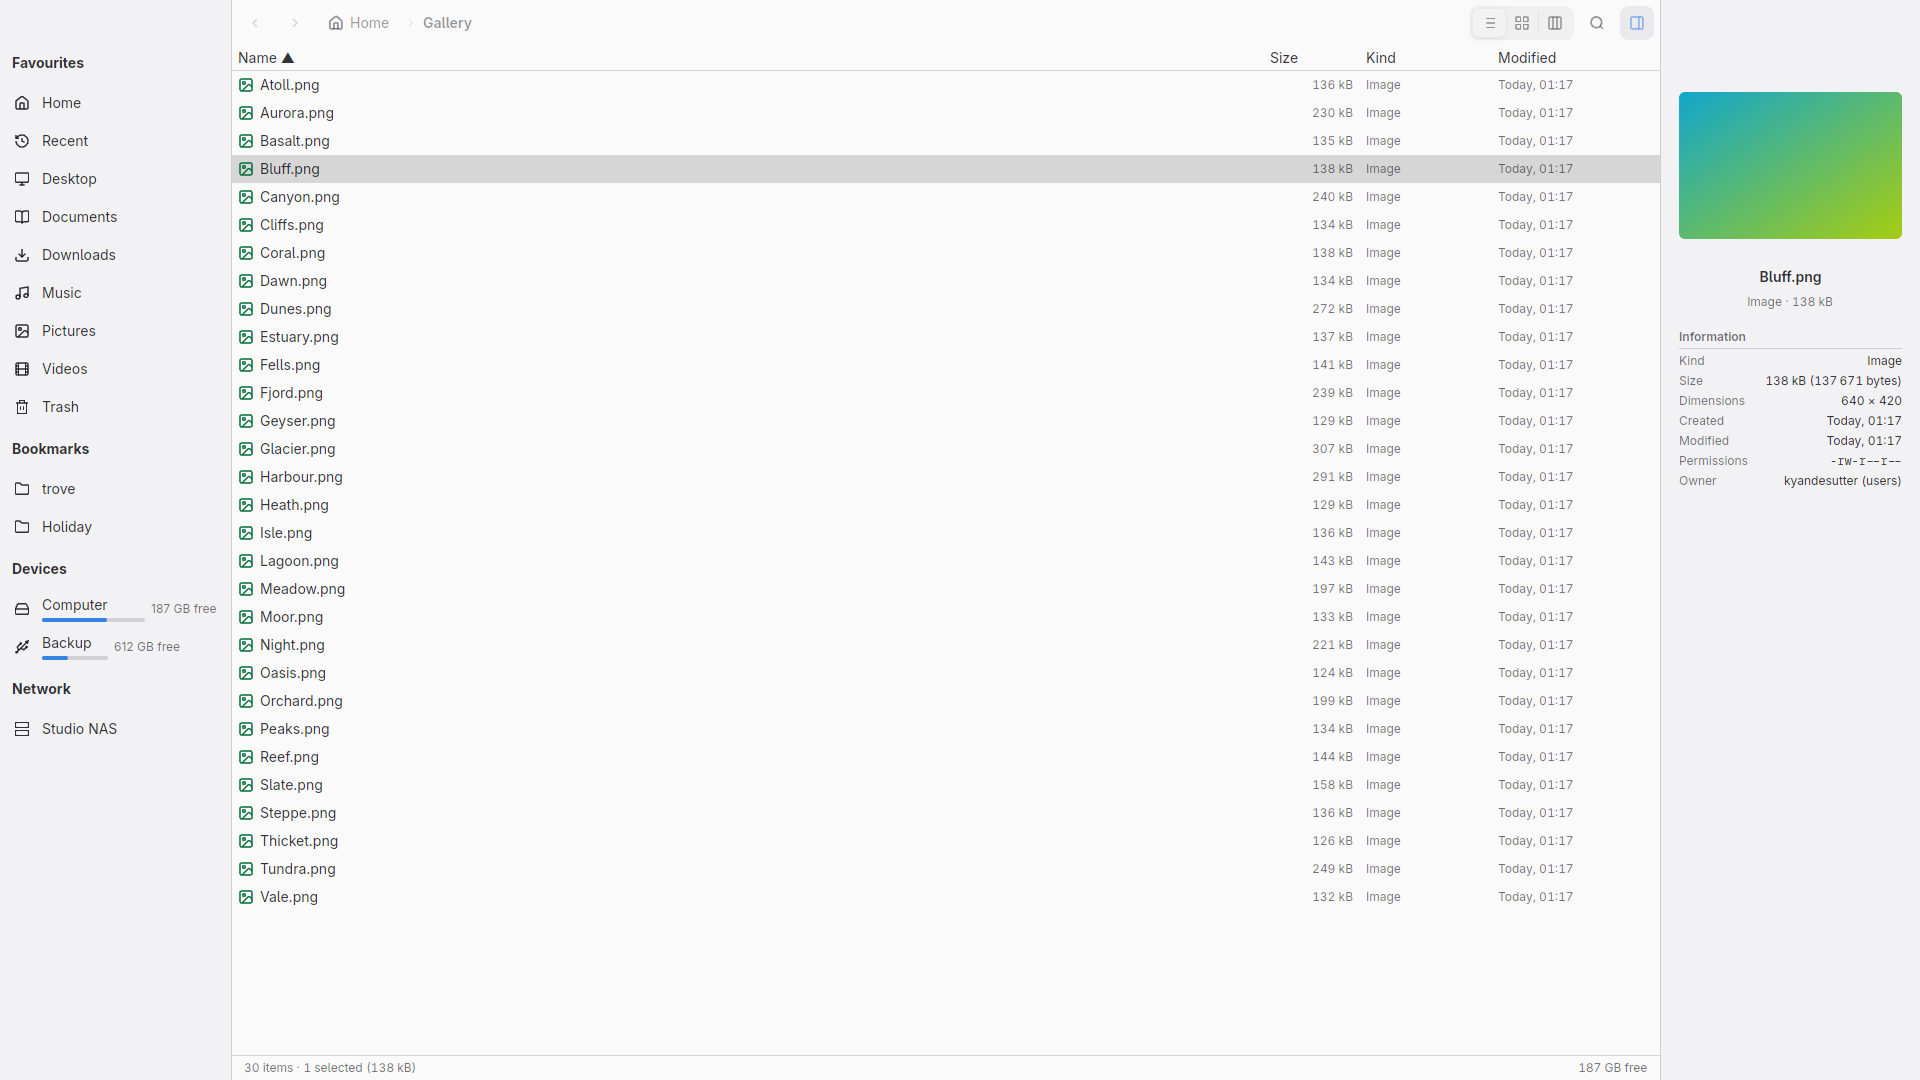
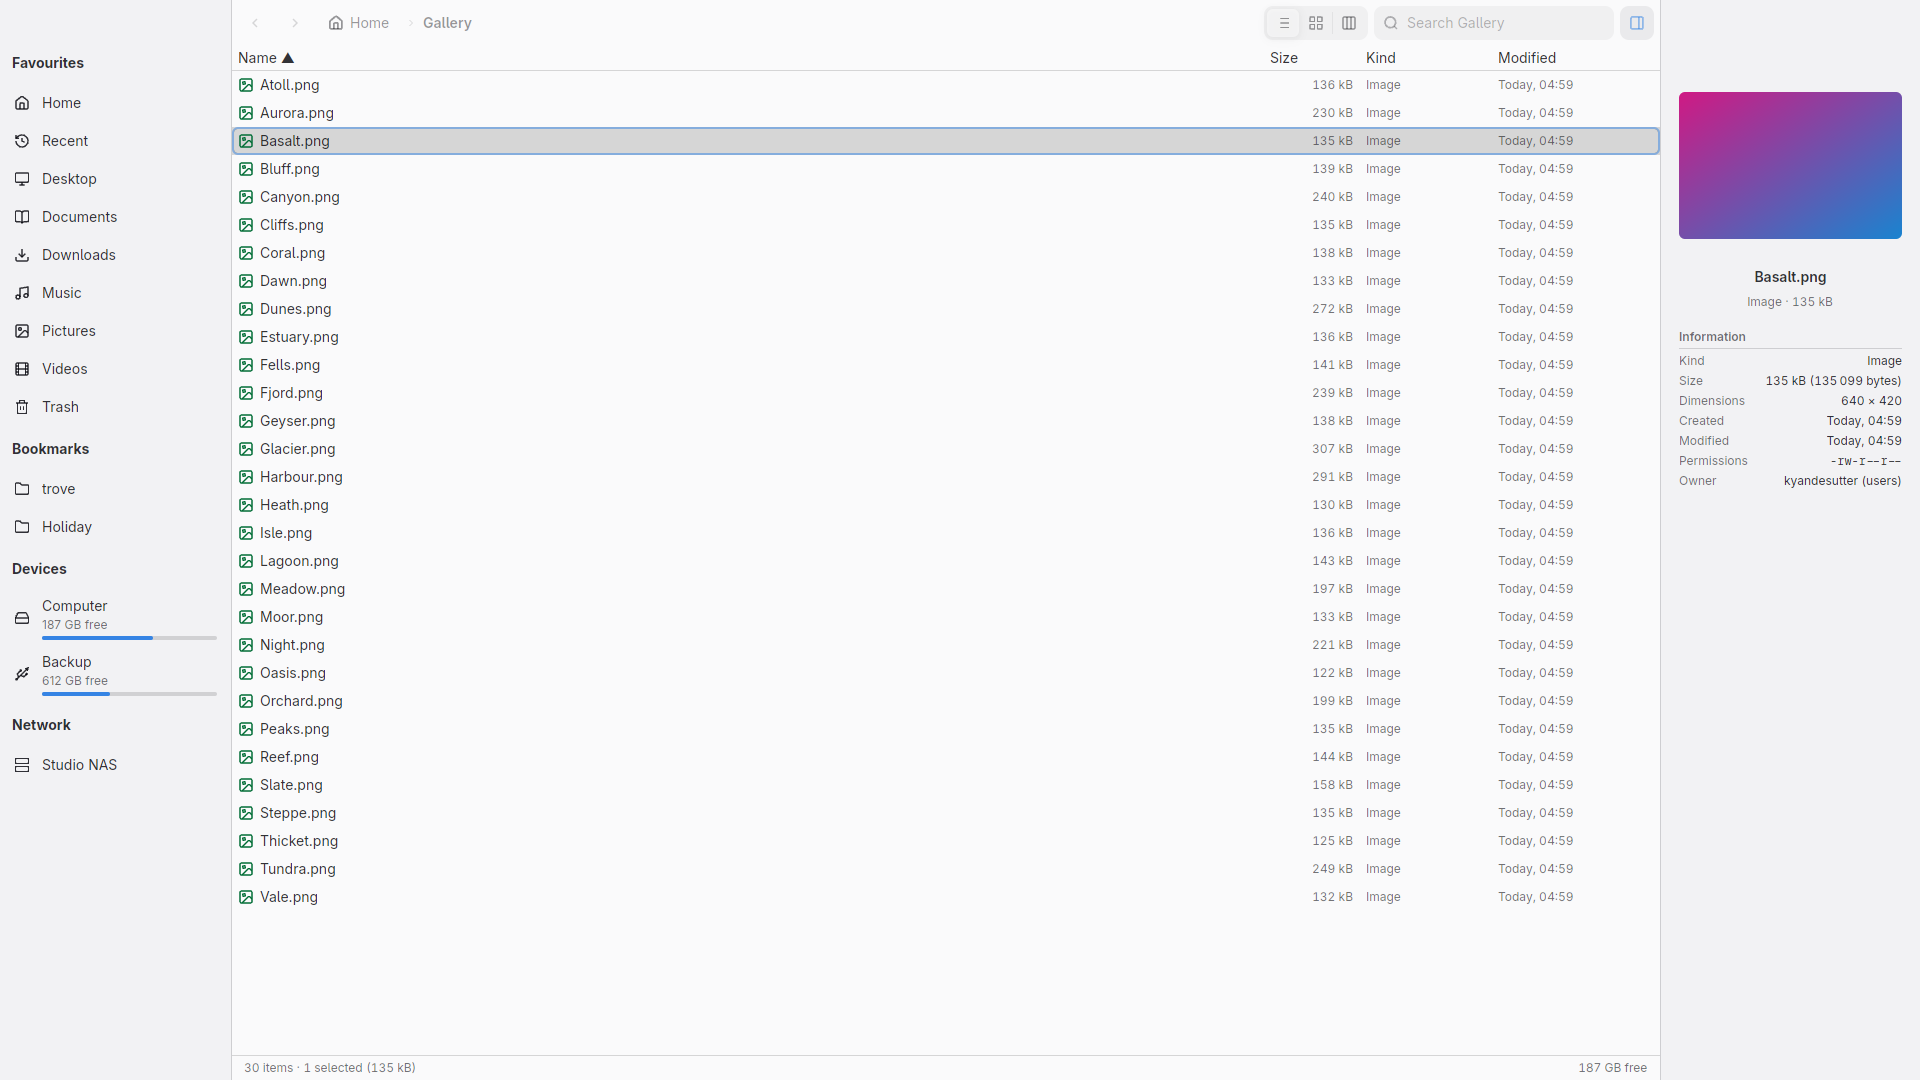
docs: readme with architecture, measured numbers and new screenshots

Changed region(s): [[0.0938, 0.0611, 1.0, 0.275], [0.0, 0.55, 0.0938, 0.7333], [0.7188, 0.0, 0.8125, 0.0306]]

diff --git a/tests/real_shots.rs b/tests/real_shots.rs
@@ -1,7 +1,8 @@
-//! Tier 3: the README and website screenshot. The demo fixture in a private headless Hyprland at
-//! 1920x1080, the window filling the output, the list view with the preview pane open on a
-//! picture. Dark and light go to `artifacts/shots/readme-{dark,light}.png`; `scripts/shots`
-//! copies the dark one to `docs/shots/linux.png`.
+//! Tier 3: the README's images and the website screenshot, the demo fixture in a private headless
+//! Hyprland with the window filling the output. The website's is the list view with the preview
+//! pane open on a picture at 1920x1080, dark and light, in `artifacts/shots/readme-*.png`; the
+//! README's are 1600x1000 and dark, in `artifacts/shots/images/`. `scripts/shots` copies both
+//! into `docs/`.
 //!
 //! It opens real windows, so it runs only under nextest or with `ND_REAL=1`.
 #![cfg(target_os = "linux")]
@@ -111,4 +112,71 @@ fn real_readme_screenshot() {
         println!("screenshot {}", out.display());
         drop(app);
     }
+}
+
+/// The README's images: the demo fixture in a 1600x1000 output, dark, the window filling it.
+/// Each lands in `artifacts/shots/images/<name>.png`; `scripts/shots` copies them to
+/// `docs/images/`.
+#[test]
+fn real_docs_images() {
+    if !real_allowed() {
+        println!("skipped: opens a real window; run with ND_REAL=1");
+        return;
+    }
+    const W: u32 = 1600;
+    const H: u32 = 1000;
+    let extra_config = format!(
+        r#"hl.window_rule({{ name = "trove-fill", match = {{ class = "dev.formalsnake.trove" }}, size = "{W} {H}", move = "0 0" }})"#
+    );
+    let compositor = Hyprland::start(Options { width: W, height: H, extra_config, ..Default::default() }).unwrap();
+    let env = compositor.client_env();
+    let runtime = env.iter().find(|(k, _)| *k == "XDG_RUNTIME_DIR").map(|(_, v)| v.clone()).unwrap();
+    pictures(&Path::new(&runtime).join("trove-demo").join("Gallery"));
+    let shots = Path::new(env!("CARGO_MANIFEST_DIR")).join("artifacts").join("shots");
+    let images = shots.join("images");
+    std::fs::create_dir_all(&images).unwrap();
+    let toml = shots.join("theme-dark.toml");
+    std::fs::write(&toml, "appearance = \"dark\"\n").unwrap();
+    let grab = |name: &str| {
+        let out = images.join(format!("{name}.png"));
+        let status = compositor.command("grim").arg("-l").arg("9").arg(&out).status().unwrap();
+        assert!(status.success(), "grim failed");
+        println!("screenshot {}", out.display());
+    };
+
+    let mut options = LaunchOptions::new(bin()).env("TROVE_DEMO", "1").env("ND_THEME_TOML", toml.display().to_string());
+    for (key, value) in &env {
+        options = options.env(*key, value.clone());
+    }
+    let app = launch_app(options).unwrap();
+    let keys = |k: &str, settle: u64| {
+        app.keyboard().press(k).unwrap();
+        std::thread::sleep(Duration::from_millis(settle));
+    };
+    expect(&app.get_by_test_id("files-table")).to_be_visible().unwrap();
+    std::thread::sleep(Duration::from_millis(600));
+
+    // A second tab, in the gallery, with a picture in the preview pane.
+    keys("ctrl-t", 400);
+    keys("g a l enter", 600);
+    keys("f j o ctrl-i", 1500);
+    grab("list");
+
+    keys("ctrl-i ctrl-2", 1500);
+    grab("grid");
+
+    keys("ctrl-1 space", 1200);
+    grab("quicklook");
+
+    keys("space ctrl-3", 1500);
+    grab("columns");
+
+    // The gallery's search, switched to all of Home.
+    keys("ctrl-1 ctrl-f", 400);
+    app.get_by_test_id("search").type_text("re").unwrap();
+    std::thread::sleep(Duration::from_millis(600));
+    let scope = app.get_by_test_id("search-scope").bounding_box().unwrap().unwrap();
+    app.mouse().click(scope.x + scope.width * 0.75, scope.y + scope.height / 2.).unwrap();
+    std::thread::sleep(Duration::from_millis(1000));
+    grab("search");
 }

diff --git a/README.md b/README.md
@@ -1,34 +1,49 @@
-<p align="center">
-  <img src="packaging/linux/dev.formalsnake.trove.png" width="160" alt="Trove icon">
-</p>
+<p align="center"><img src="packaging/linux/dev.formalsnake.trove.png" width="160" alt="Trove icon"></p>
 
 # Trove
 
-[![Built with NativeDesktop](https://img.shields.io/badge/built_with-NativeDesktop-4a9eda?style=for-the-badge&labelColor=161616)](https://github.com/FormalStudio/NativeDesktop)
-[![Rust](https://img.shields.io/badge/rust-2024-4a9eda?style=for-the-badge&labelColor=161616&logo=rust&logoColor=white)](src/)
+A file manager for Linux that opens at once, even with a dead network mount in the sidebar.
+Rust on [NativeDesktop](https://github.com/FormalStudio/NativeDesktop) (GPUI on Linux), with
+tabs, three views, a preview pane, Quick Look and search across Home.
 
-A file manager for Linux that opens instantly, even with a dead network mount in the sidebar.
+![The list view with the preview pane on a picture](docs/images/list.png)
 
-![Trove](docs/shots/linux.png)
+```
+┌────────────────────────┐  flume   ┌───────────────────────────────────────────────┐
+│ trove (nd, GPUI)       │ ───────▶ │ trove-fs       listing threads, inotify       │
+│ window, tabs, sidebar, │          │ trove-ops      the operation queue            │
+│ views, preview pane    │ ◀─────── │ trove-preview  previews, thumbnail pool       │
+└────────────────────────┘          │ trove-search   index of Home, query engine    │
+                                    └───────────────────────────────────────────────┘
+```
 
-A release build reaches its first frame about 148 ms after the process starts (g815, private
-headless Hyprland, median of ten launches, `tests/real.rs`). Each tab streams its folder from
-worker threads: names land first, sizes and dates fill in as they are read, and leaving a folder
-drops its listing instead of waiting for it. The first frame waits on nothing but a few small
-config files, so a mount that never answers cannot hold the window back.
+The window thread never touches the disk: listings, stats, previews, thumbnails, copies and
+search run on the core crates' own threads and report back over channels. Pinned to g815's
+E-cores, a release build reaches its first frame in 178 ms whatever is mounted, shows the first
+names of a 100k-entry folder 10 ms after you enter it, and ranks search results across 343k
+entries in 0.4 to 2.4 ms per keystroke. Left alone it used at most one 10 ms tick of CPU in a
+minute, focused or behind another window.
+
+| | |
+|---|---|
+| ![Grid view with thumbnails](docs/images/grid.png) | ![Search across Home](docs/images/search.png) |
+| ![Quick Look](docs/images/quicklook.png) | ![Columns view](docs/images/columns.png) |
 
 ## Features
 
-- Tabs with their own history, folder, selection, sort and view: Ctrl+T, Ctrl+W, Ctrl+Tab, Ctrl+1..9.
+- Tabs with their own history, folder, selection, sort and view: Ctrl+T, Ctrl+W, Ctrl+Tab,
+  Alt+1..9. Middle-click a folder to open it in a tab, or a tab to close it.
 - List, grid and columns views. Thumbnails are made off the main thread.
 - Search from the second character, across the folder or all of Home, with a query language:
   `ext:pdf`, `kind:image`, `size:>10mb`, `modified:week`, `in:projects`, `"exact phrase"`,
   `*.rs` globs. Ranked results update per keystroke from a background index of Home.
 - A preview pane (Ctrl+I) for pictures, text, folders, archives and audio, and Quick Look on Space.
+- A sidebar of places, bookmarks and devices with their free space, each row with its own menu.
+  The sidebar and the preview pane resize, and keep their widths.
 - Network mounts are never touched until clicked. A folder that is slow to answer says "Waiting
   for server" after one second and the window stays responsive.
 - Copy, move, rename, trash, restore, compress and extract run as queued jobs with progress,
-  conflict handling and undo.
+  conflict handling and undo. Hold Ctrl while dragging to copy, Shift to move.
 - Interop with the rest of the desktop: the freedesktop Trash, the shared thumbnail cache, GTK
   bookmarks, `recently-used.xbel`, and the GNOME Files clipboard format.
 - Follows the system: light and dark, the accent colour, and matugen palettes, live.
@@ -78,7 +93,8 @@ network_thumbnails = false
 
 The full table is in [docs/design.md](docs/design.md#keys). The ones to know: Enter opens,
 Backspace goes up, Space is Quick Look, F2 renames, Ctrl+F searches, Ctrl+L edits the path,
-Ctrl+H shows hidden files, Ctrl+1/2/3 switch view. `Cmd` replaces `Ctrl` on macOS.
+Ctrl+H shows hidden files, Ctrl+1/2/3 switch view, Alt+1..9 switch tab. `Cmd` replaces `Ctrl`
+on macOS.
 
 ## Development
 
@@ -87,7 +103,7 @@ just dev                  # run it; TROVE_DEMO=1 just dev for demo state
 nd check                  # fmt, clippy, framework lints, appearance audit
 nd test                   # tiers 1 and 2, parallel, no window
 nd test --tier real       # tier 3, real windows
-scripts/shots linux       # regenerate docs/shots/linux.png
+scripts/shots linux       # regenerate docs/images/ and docs/shots/linux.png
 ```
 
 `src/root.rs` is the window and `src/tab.rs` one tab. `crates/` holds the file system, operations,

diff --git a/docs/design.md b/docs/design.md
@@ -12,7 +12,7 @@ search that finds a file anywhere in the home directory before the user finishes
 | First names of a 10k-entry local folder on screen | under 50 ms after navigation | 10 ms for 100k entries, all listed in 61 to 98 ms |
 | A folder on a dead NFS/SMB mount | the window stays responsive; "Waiting for server" after 1 s | shown at 1064 ms, the window answering in 1 ms |
 | Search across an indexed home of 500k files, per keystroke | under 30 ms to ranked results | 0.4 to 2.4 ms median per word (343k entries) |
-| Idle CPU, window open, nothing changing | 0% | 0 ticks in 10 s; 2 to 3 ticks in 20 s with a shell `theme.json` present (nd's theme watcher) |
+| Idle CPU, window open, nothing changing | 0% | 0 to 1 tick in 60 s, focused and behind another window, on the demo home and on a 100k-entry folder |
 | Scrolling a 100k-entry folder | no missed frames at 60 Hz | p95 16.8 ms, 1 missed frame in 718 (the listing's last batch) |
 | Resident memory with a 100k-entry folder open | under 150 MB | 145 MB |
 
@@ -320,7 +320,7 @@ index is over 5 minutes old a query also walks its scope 3 levels deep to catch 
   completion), view switch (list, grid, columns), the search field, always there as in Finder
   (scoped to the current folder, a toggle to search everywhere), the preview toggle.
 - Tabs, Explorer-style: Ctrl+T new tab at the current folder, Ctrl+W close, Ctrl+Tab and
-  Ctrl+Shift+Tab, Ctrl+1..9, middle-click a folder or Ctrl+Enter to open it in a new tab, drag a
+  Ctrl+Shift+Tab, Alt+1..9, middle-click a folder or Ctrl+Enter to open it in a new tab, drag a
   file onto a tab to move it there. Middle-click a tab to close it; right-click it for Duplicate,
   Close and Close others. Each tab keeps its own history, selection, scroll, view and sort. The
   tab strip hides with one tab, like GNOME Files.
